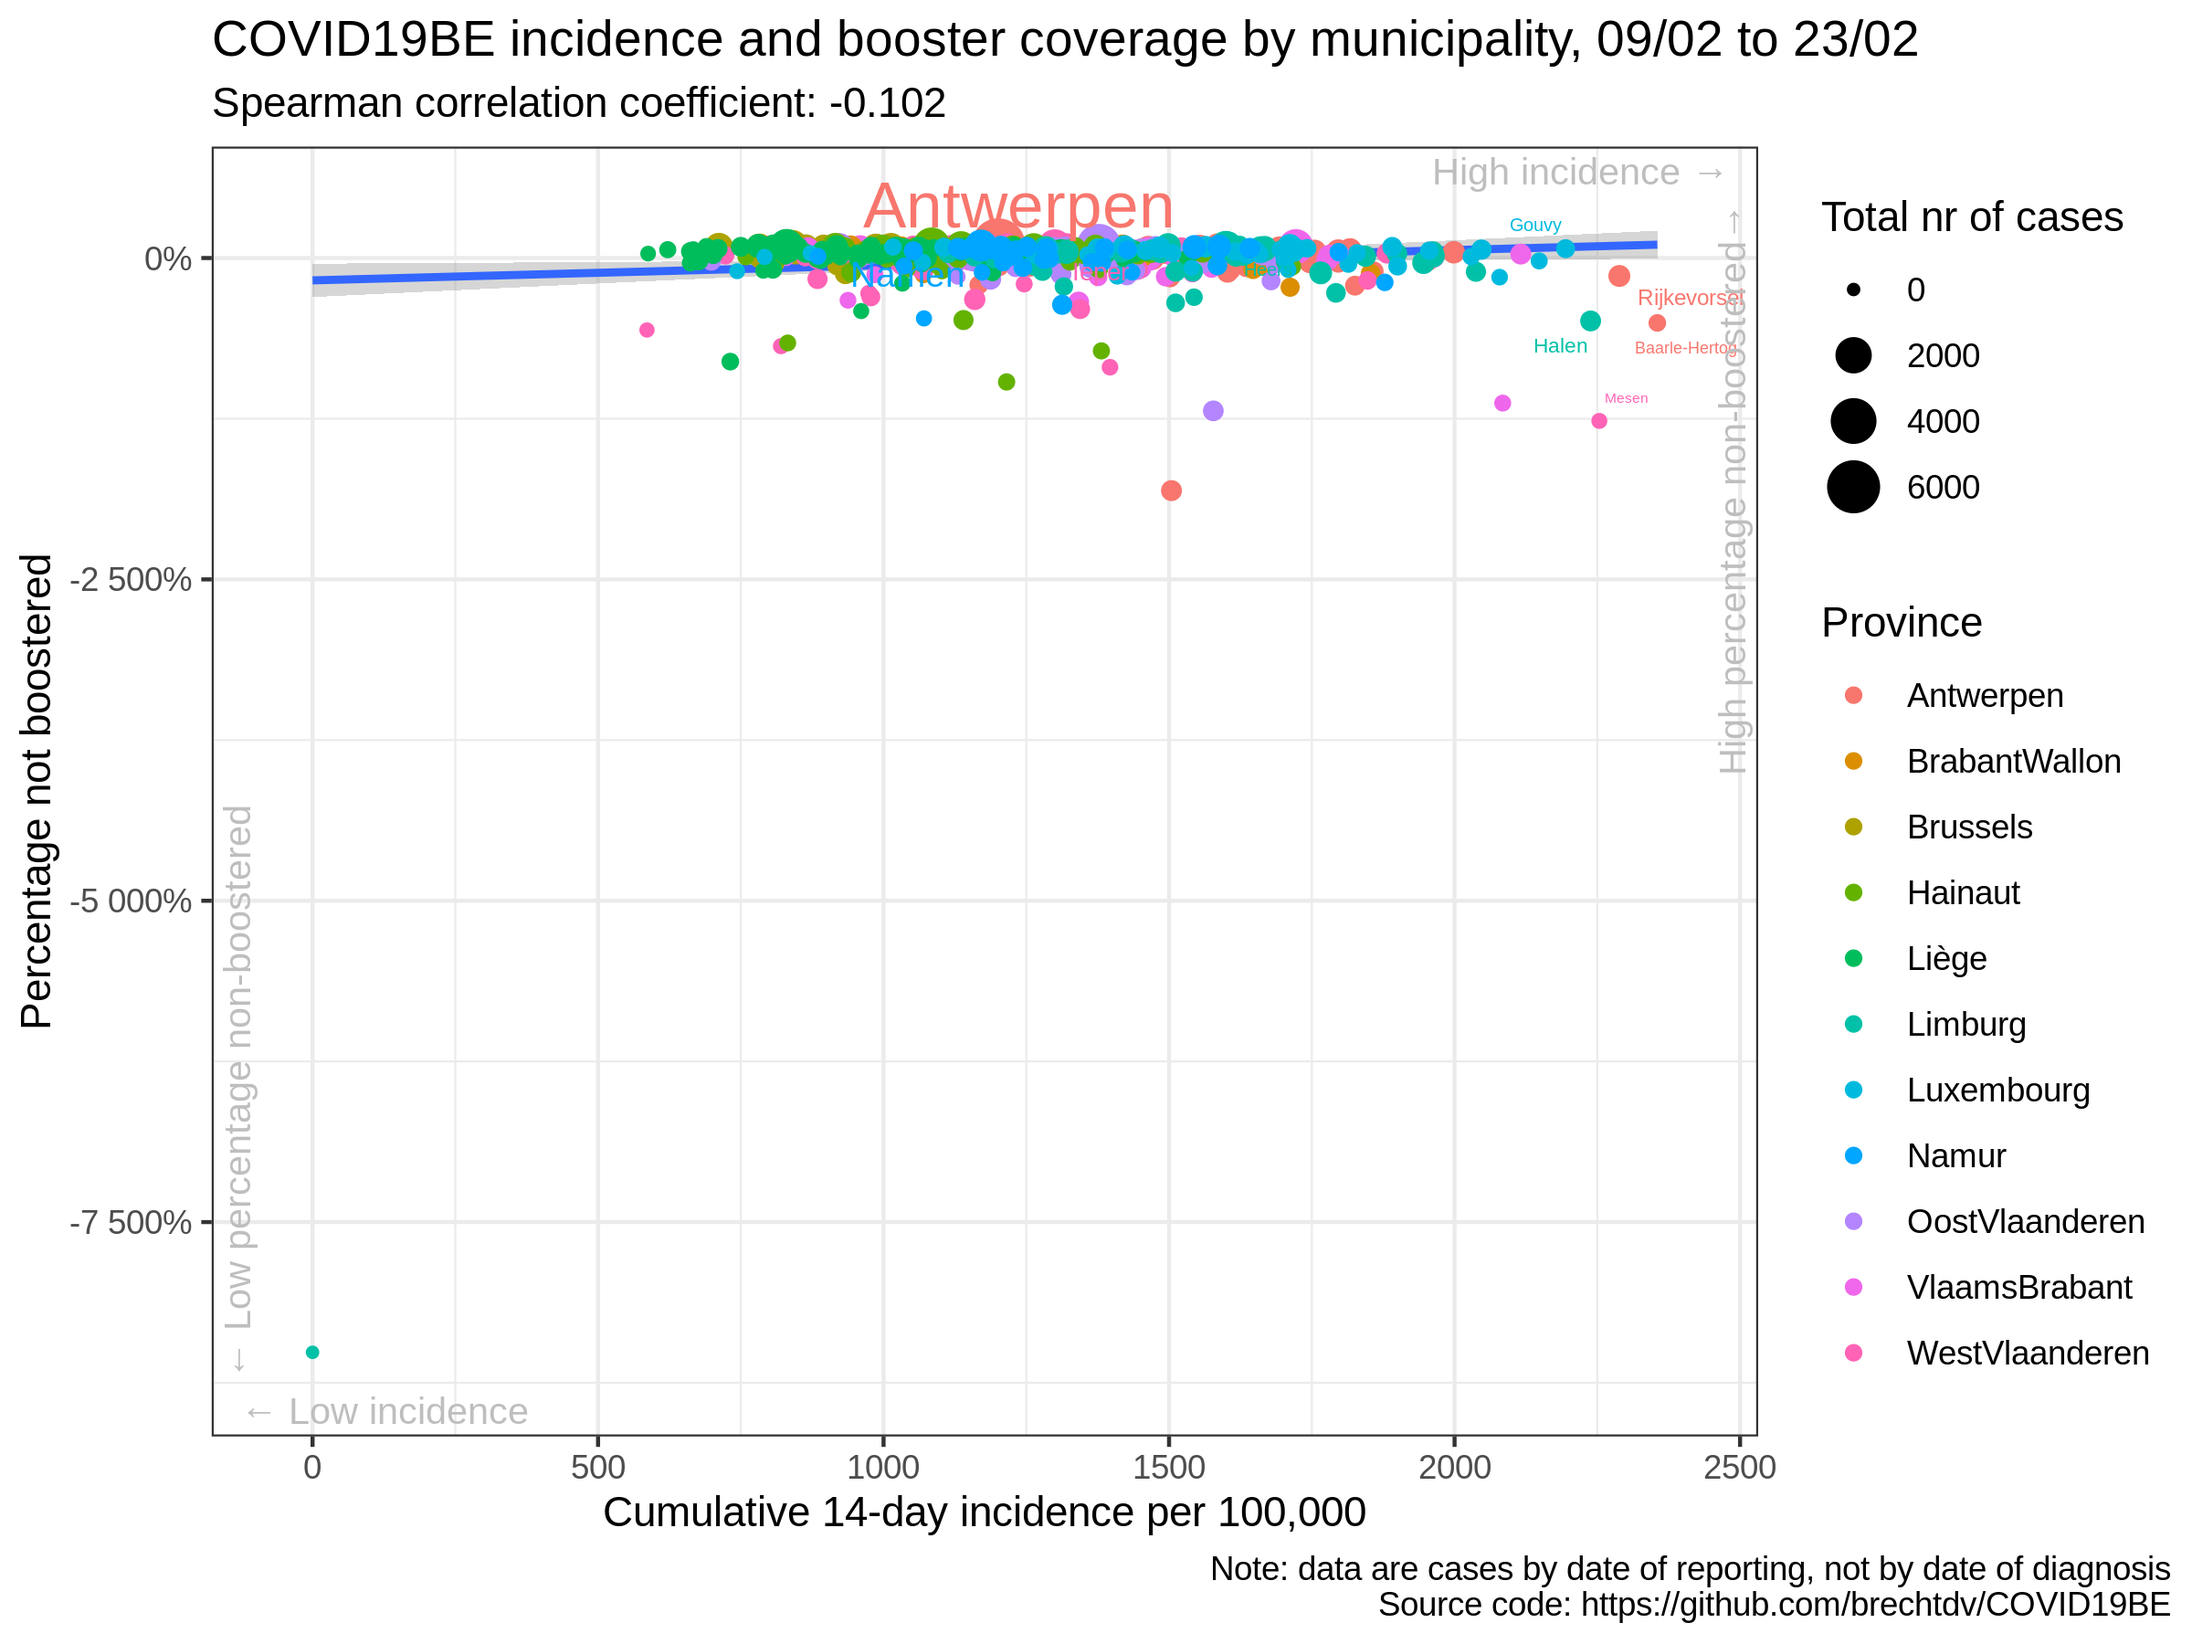
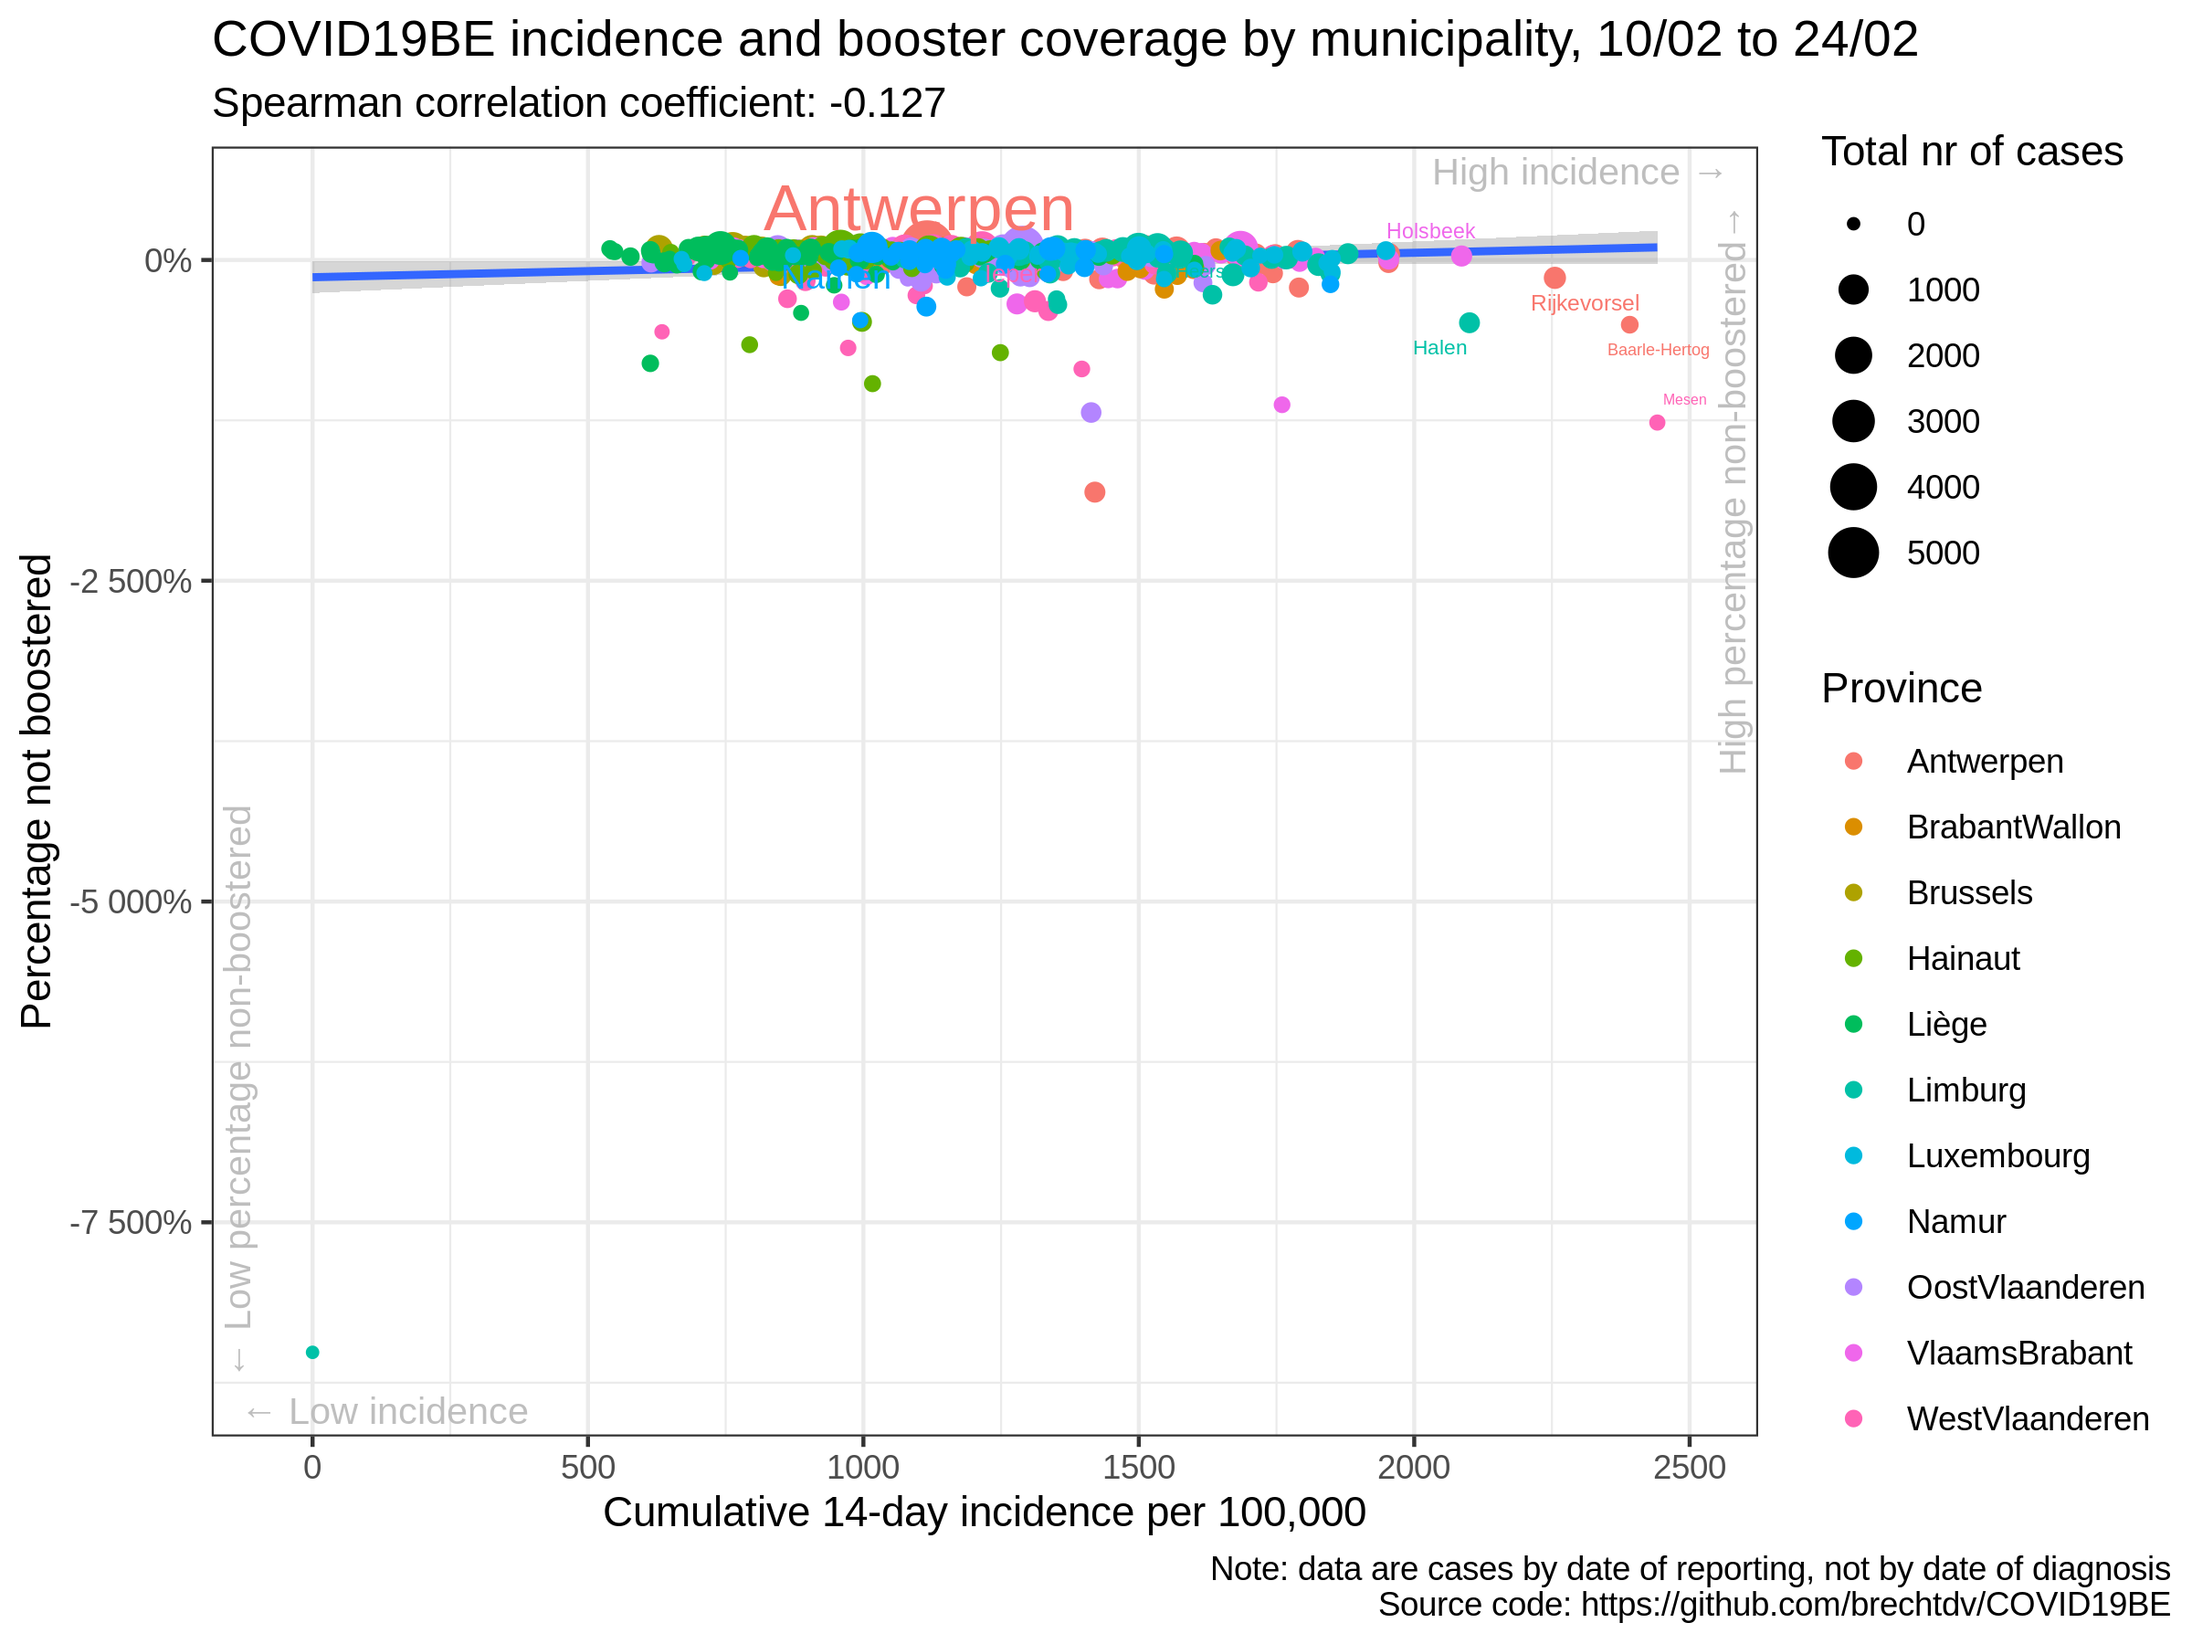
update situation

diff --git a/vaccination/README.md b/vaccination/README.md
@@ -17,35 +17,35 @@
 
 |                | estimate.rho | p.value |
 | :------------- | -----------: | ------: |
-| Antwerpen      |      \-0.150 |   0.217 |
-| BrabantWallon  |      \-0.419 |   0.031 |
-| Brussels       |      \-0.232 |   0.339 |
-| Hainaut        |      \-0.051 |   0.675 |
-| Liège          |      \-0.042 |   0.702 |
-| Limburg        |        0.009 |   0.955 |
-| Luxembourg     |      \-0.020 |   0.896 |
-| Namur          |      \-0.062 |   0.714 |
-| OostVlaanderen |      \-0.106 |   0.418 |
-| VlaamsBrabant  |      \-0.107 |   0.395 |
-| WestVlaanderen |        0.179 |   0.158 |
-| Belgium        |      \-0.076 |   0.066 |
+| Antwerpen      |      \-0.160 |   0.187 |
+| BrabantWallon  |      \-0.337 |   0.086 |
+| Brussels       |      \-0.267 |   0.269 |
+| Hainaut        |      \-0.019 |   0.878 |
+| Liège          |      \-0.103 |   0.351 |
+| Limburg        |        0.050 |   0.750 |
+| Luxembourg     |      \-0.067 |   0.665 |
+| Namur          |        0.008 |   0.963 |
+| OostVlaanderen |      \-0.128 |   0.327 |
+| VlaamsBrabant  |      \-0.137 |   0.277 |
+| WestVlaanderen |        0.114 |   0.370 |
+| Belgium        |      \-0.094 |   0.023 |
 
 ### Correlation cumulative incidence vs booster rate
 
 |                | estimate.rho | p.value |
 | :------------- | -----------: | ------: |
-| Antwerpen      |      \-0.160 |   0.190 |
-| BrabantWallon  |      \-0.418 |   0.031 |
-| Brussels       |      \-0.251 |   0.299 |
-| Hainaut        |      \-0.052 |   0.670 |
-| Liège          |      \-0.039 |   0.724 |
-| Limburg        |        0.007 |   0.967 |
-| Luxembourg     |      \-0.006 |   0.970 |
-| Namur          |      \-0.037 |   0.825 |
-| OostVlaanderen |      \-0.107 |   0.417 |
-| VlaamsBrabant  |      \-0.137 |   0.276 |
-| WestVlaanderen |        0.175 |   0.165 |
-| Belgium        |      \-0.102 |   0.014 |
+| Antwerpen      |      \-0.170 |   0.162 |
+| BrabantWallon  |      \-0.338 |   0.085 |
+| Brussels       |      \-0.293 |   0.223 |
+| Hainaut        |      \-0.026 |   0.834 |
+| Liège          |      \-0.106 |   0.338 |
+| Limburg        |        0.052 |   0.744 |
+| Luxembourg     |      \-0.054 |   0.726 |
+| Namur          |        0.033 |   0.847 |
+| OostVlaanderen |      \-0.129 |   0.326 |
+| VlaamsBrabant  |      \-0.167 |   0.183 |
+| WestVlaanderen |        0.112 |   0.379 |
+| Belgium        |      \-0.127 |   0.002 |
 
 ### Data source
 
